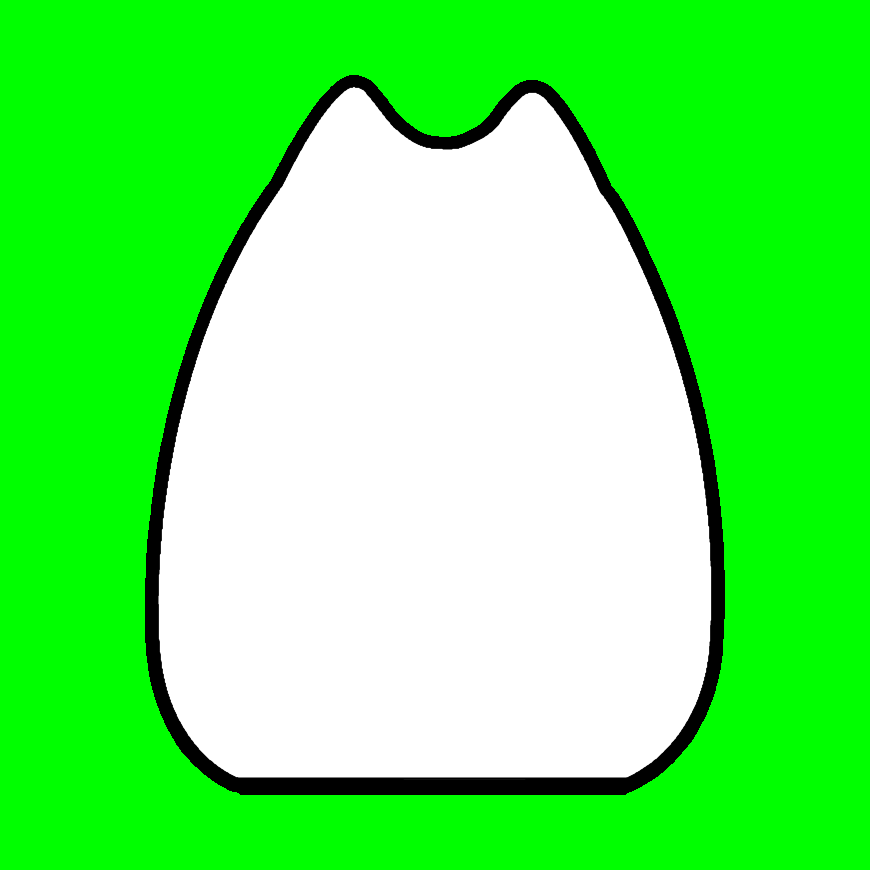
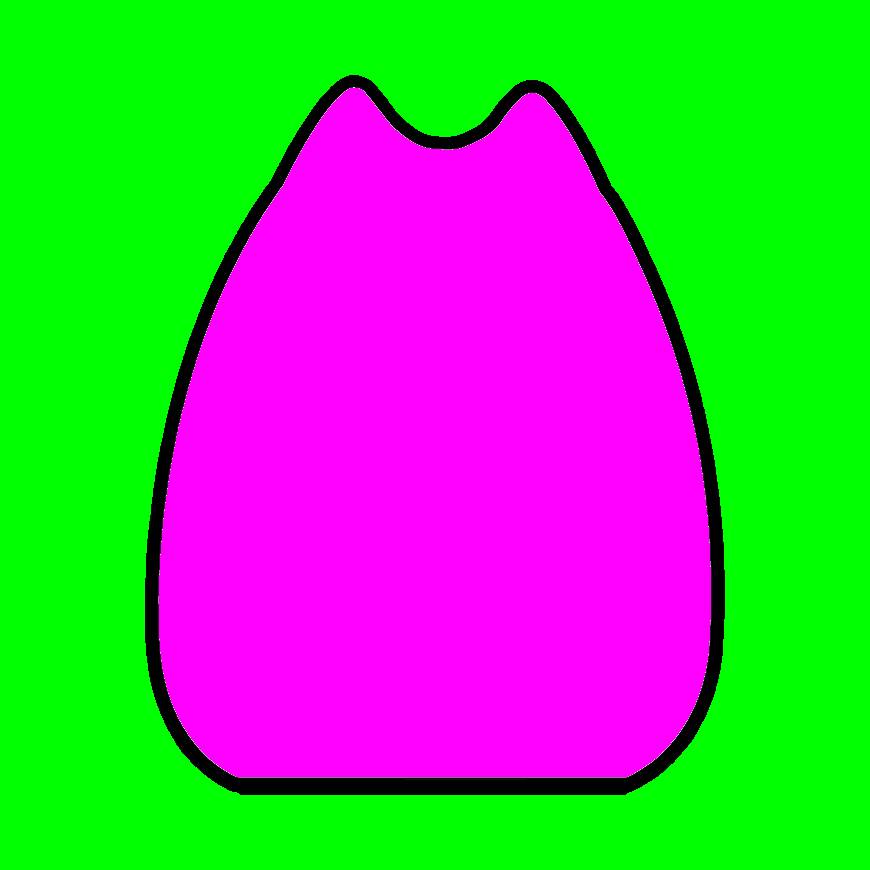
what the fuck what the fuck what the fuck

diff --git a/cogs/commands/images.py b/cogs/commands/images.py
@@ -4,6 +4,7 @@ from PIL import Image
 import io
 import discord
 from discord.ext import commands
+import random
 
 
 async def getImage(ctx, user: discord.User = None):
@@ -49,10 +50,45 @@ def hippityHoppityThisColorIsDisappearity(img: Image.Image, color: tuple = (0, 2
     return img
 
 
+def replaceColor(image: Image.Image, targetIn: tuple, colorOut: tuple):
+    image = hippityHoppityThisColorIsDisappearity(image, targetIn)
+    result = Image.new(mode=image.mode, size=(image.width, image.height), color=colorOut)
+    result.paste(image)
+    return result
+
+
+def findAlphaTarget(image1: Image.Image, image2: Image.Image):
+
+    satisfied = False
+    potentialTarget = (0, 255, 0, 255)  # start with green
+    blacklist = []
+    fuck = 0
+
+    while not satisfied:
+        if fuck == 10:
+            random.seed()
+            fuck = 0
+
+        if potentialTarget not in blacklist:
+            if potentialTarget in image1.getdata() or potentialTarget in image2.getdata():
+                blacklist.append(potentialTarget)
+            else:
+                satisfied = True
+        else:
+            fuck += 1
+
+        # randomize target
+        potentialTarget = (random.randrange(0, 256), random.randrange(0, 256), random.randrange(0, 256), 255)
+
+    print(potentialTarget)
+    return potentialTarget
+
+
 class Images(commands.Cog, name="Image Manipulation"):
     def __init__(self, bot):
         self.bot = bot
         self.bot.cmds.append(self.deepfry)
+        self.catLampTemplate = Image.open('catlamp-outlineonly.png', mode='r').convert('RGBA')
 
     @commands.command(cooldown_after_parsing=True)
     @commands.cooldown(1, 5, commands.BucketType.user)
@@ -71,25 +107,26 @@ class Images(commands.Cog, name="Image Manipulation"):
     async def catLamp(self, ctx, user: discord.User = None):
         """catlamp here"""
         async with ctx.channel.typing():
+            # set the images
             image = await getImage(ctx, user)
-            # size = 870, 870  # the resolutions need to match
-            # image.thumbnail(size)
-            print(image.size)
+            overlay = self.catLampTemplate
 
-            template = Image.open('catlamp-outlineonly.png', mode='r')
-
+            # convert the images to be equal in size and mode for compatibility
             image = forceSquare(image)
-            print(image.size, template.size)
-            if image.size > template.size:
-                image.thumbnail(template.size)
+            if image.size > overlay.size:
+                image.thumbnail(overlay.size)
             else:
-                template.thumbnail(image.size)
+                overlay.thumbnail(image.size)
+            image = image.convert(mode=overlay.mode)
 
-            image = image.convert(mode=template.mode)
+            # find a color not in either image so we can use it for transparency in the final product
+            alpha = findAlphaTarget(image, overlay)
 
-            print(image.size == template.size, template.mode == image.mode)
-            outImg = Image.alpha_composite(image, template)  # processing here
-            outImg = hippityHoppityThisColorIsDisappearity(outImg)
+            # set alpha color outside of the lamp
+            overlay = replaceColor(overlay, (0, 255, 0, 255), alpha)
+
+            # combine catLamp with image
+            outImg = overlay#Image.alpha_composite(image, overlay)
 
             img = io.BytesIO()
             outImg.save(img, "png")
